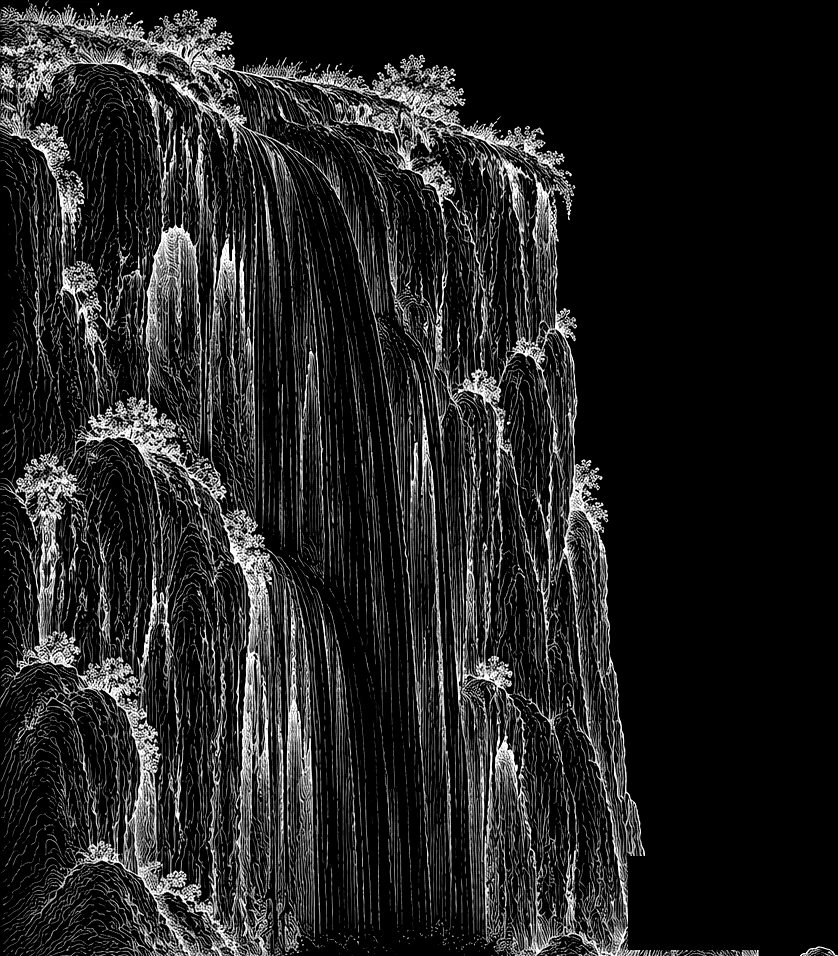
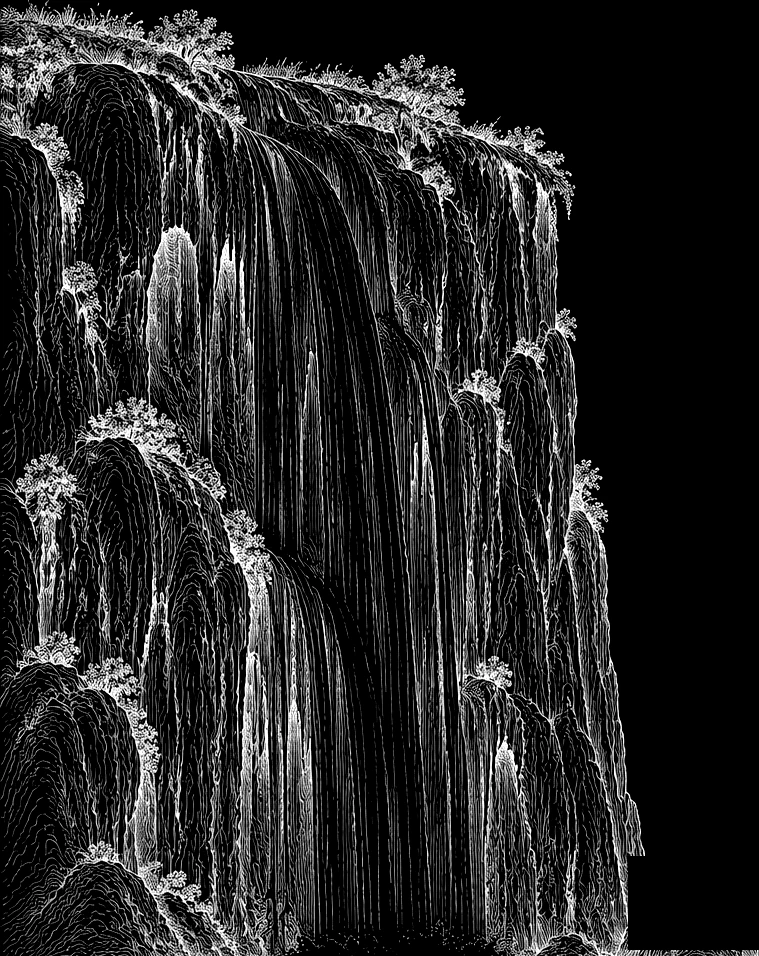
Kondisi: aset tebing, sisa riak kanan dibuang

diff --git a/scripts/kondisi-aset.py b/scripts/kondisi-aset.py
@@ -74,6 +74,7 @@ g = Image.open(SUMBER / "kand-G.png").convert("RGB")
 kertas_g = g.getpixel((820, 900))
 g.paste(kertas_g, (628, 868, 772, 962))
 g.paste(kertas_g, (0, 968, g.width, g.height))  # garis riak laut diganti lapisan CSS
+g.paste(kertas_g, (760, 944, g.width, g.height))  # sisa riak di kanan kaki tebing
 m = mask(g)
 x0, y0, x1, y1 = m.point(lambda v: 255 if v > 16 else 0).getbbox()
 simpan(m.crop((x0, y0, x1, y1)), "tebing")
